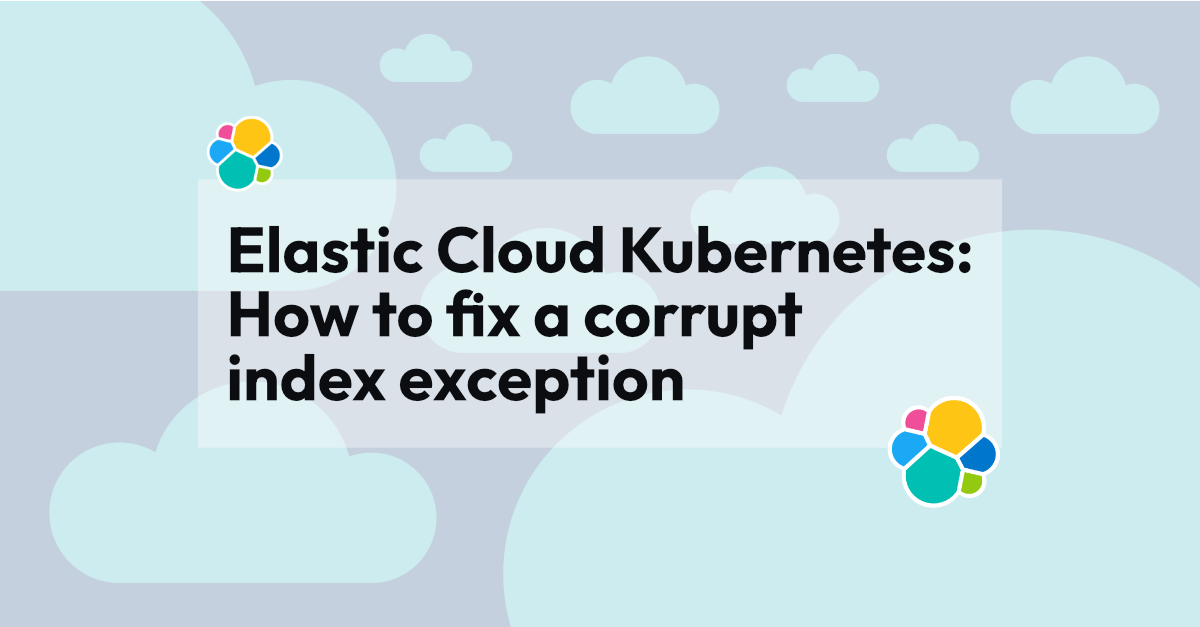
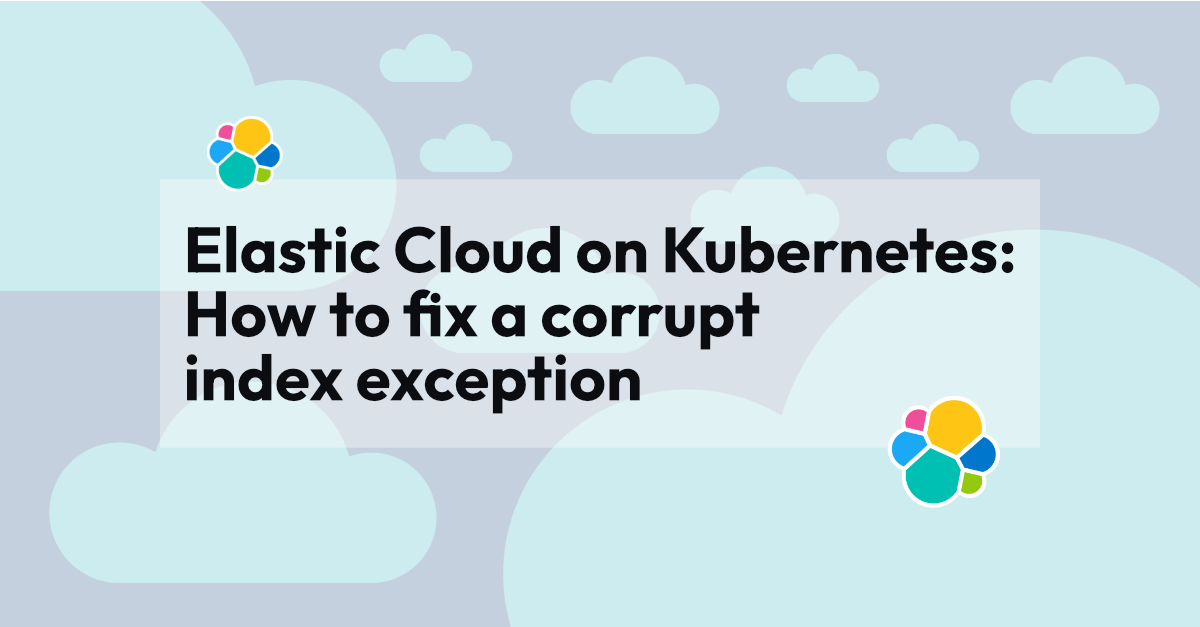
Fixes to ECK blog
Fixes to ECK How to fix a corrupt index exception blog

Changed region(s): [[0.1542, 0.3636, 0.8633, 0.6667]]

diff --git a/src/posts/elastic-cloud-kubernetes-how-to-fix-a-corrupt-index-exception.md b/src/posts/elastic-cloud-kubernetes-how-to-fix-a-corrupt-index-exception.md
@@ -1,12 +1,14 @@
 ---
 type: Blog
-title: 'Elastic Cloud Kubernetes: How to fix a corrupt index exception'
+title: 'Elastic Cloud on Kubernetes: How to fix a corrupt index exception'
 subheading: In this article we’re going to see how to fix a corrupt index which was not automatically recovered.
 authors:
 - avijayan
 tags:
 - Elastic
-date: 2022-11-18
+- Kubernetes
+- Cloud
+date: 2022-11-21
 image: "/blogs/elastic-cloud-kubernetes-how-to-fix-a-corrupt-index-exception.png"
 featured: true
 
@@ -20,7 +22,7 @@ To solve corruption problems, Elasticsearch database ships with a binary `elasti
 
 In order to execute this command in an Elasticsearch node, the Elasticsearch service should not be running. This is to prevent any read/write actions while the shard is being repaired. This is complicated in a container-based environment like Kubernetes because the container exits if the entry point process is stopped, in this case, the Elasticsearch process.
 
-However, Elastic Cloud Kubernetes comes with a way to suspend containers with the help of Kubernetes annotations. When annotated with [`eck.k8s.elastic.co/suspend`](http://eck.k8s.elastic.co/suspend) the container restarts into one of init containers, namely `elastic-internal-suspend` with all the necessary disks mounted. After connecting to that internal container, one can have access to the disk and can run commands.  
+However, Elastic Cloud on Kubernetes comes with a way to suspend containers with the help of Kubernetes annotations. When annotated with [`eck.k8s.elastic.co/suspend`](http://eck.k8s.elastic.co/suspend) the container restarts into one of init containers, namely `elastic-internal-suspend` with all the necessary disks mounted. After connecting to that internal container, one can have access to the disk and can run commands.  
 
 In this article we are going to see how to fix a corrupt index which was not automatically recovered.
 
@@ -60,7 +62,7 @@ Finally the tool requests the user to `reroute` the index to allocate a primary 
 
 Now that the corruption is fixed, it’s time to start the Elasticsearch node and enable the shard allocations settings  to `all` . The node can be restarted by removing the annotations with the command
 
-```jsx
+```bash
 kubectl annotate es myeck eck.k8s.elastic.co/suspend-
 ```
 
